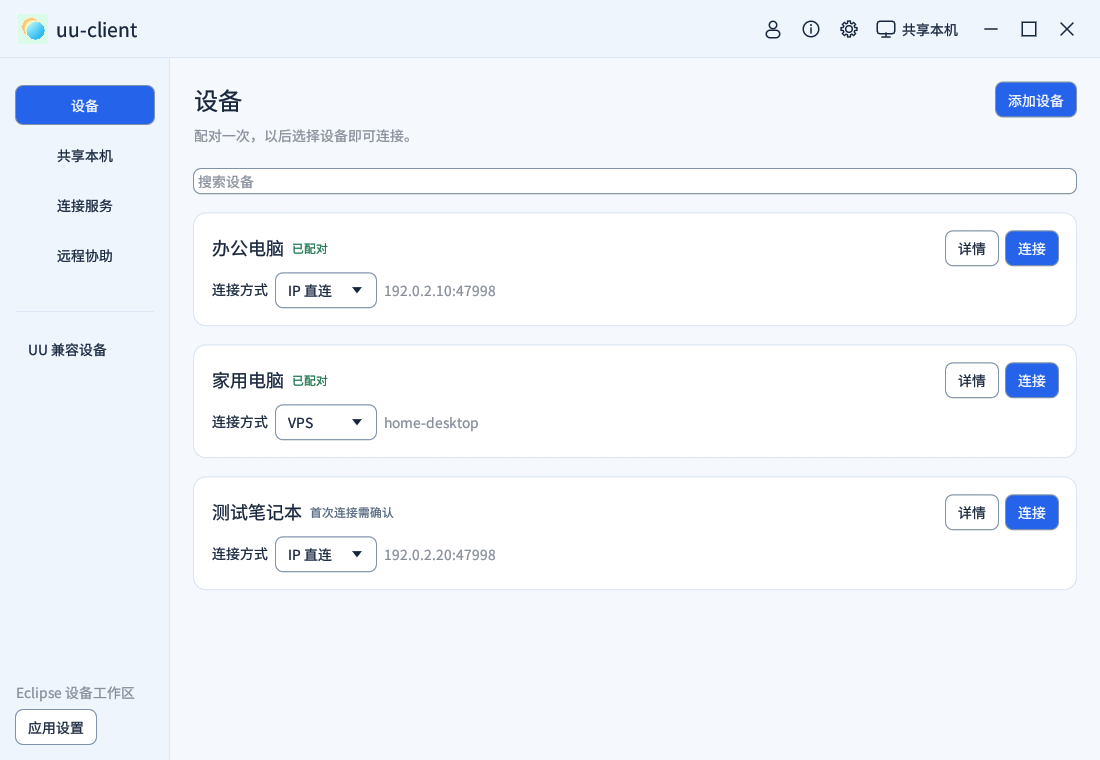
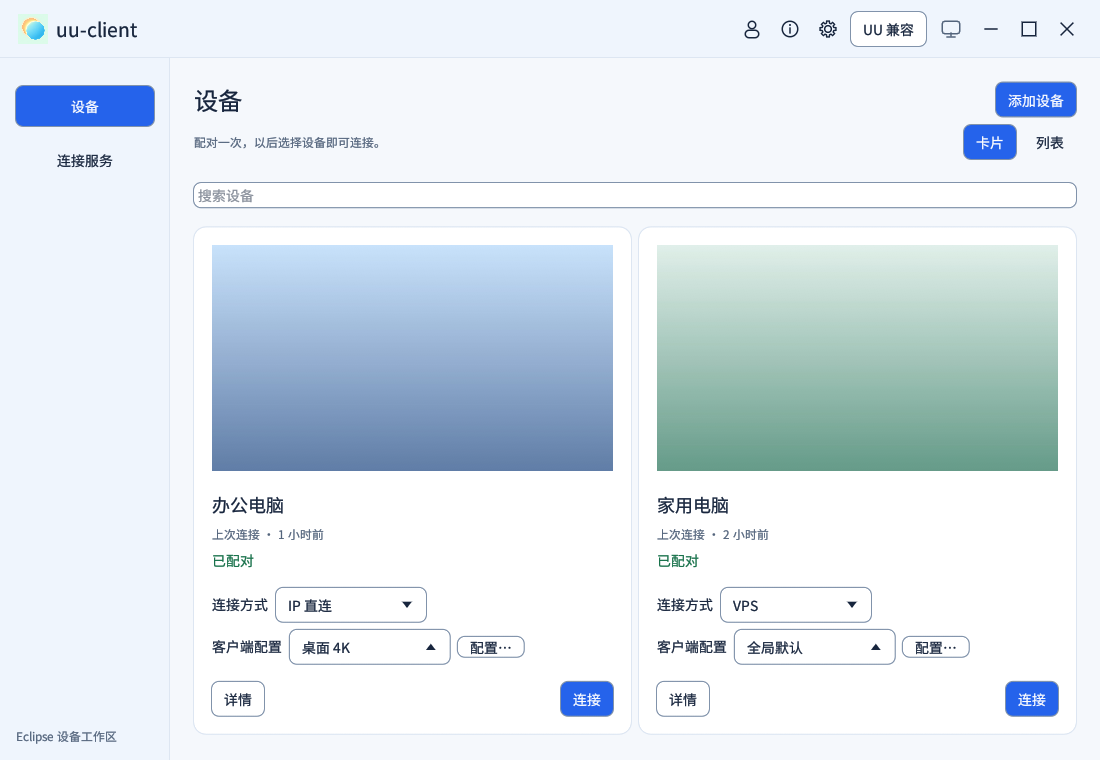
docs(settings): 说明新设备工作区与两端配置边界
原因：原文档仍指向独立共享页面和分散的端口入口，无法解释设备命名配置、会话临时调整及原生画质协商。

做法：新增客户端与服务端设置指南，更新连接、编码、权限和首页入口，说明实际帧率限制、旧端降级、私有预览与 v3 配置迁移；更新生成演示数据的设备及设置截图，不包含个人设备或部署信息。

验证：61 个本地文档目标检查通过；1100×760 和 560×420 真实隔离窗口截图已检查，服务端固定保存按钮在窄窗口可见；diff 检查通过。

diff --git a/docs/client-and-server-settings.md b/docs/client-and-server-settings.md
@@ -1,0 +1,68 @@
+# 客户端配置、服务端设置与连接服务
+
+从 0.13 开发版开始，默认进入“设备”。本机可以同时作为控制端和被控端，设置按角色分别保存。
+
+| 位置 | 管理内容 | 生效范围 |
+|---|---|---|
+| 设备 | 连接地址、上次成功连接时间、上次画面、客户端配置选择 | 当前设备 |
+| 应用设置 → 客户端 | 画面、声音、键鼠、串流信息 | 新连接的全局默认 |
+| 设备 → 配置 / 详情 | 多个命名配置，可编辑、复制、删除 | 这台设备的下一次连接 |
+| 串流窗口 → 设置 | 临时调整当前串流 | 当前会话 |
+| 应用设置 → 服务端 | 名称、屏幕、声音、编码与访问权限、启动及自启 | 本机被控服务 |
+| 连接服务 | IP 端口、UU 账号、每台自建服务器及启用开关 | 本机服务入口 |
+| 顶部 UU 兼容 | 官方远程协助与官方设备列表 | UU 兼容通路 |
+
+下面的界面使用隔离环境中的演示设备和生成预览。
+
+![设备卡片与客户端配置选择](images/workspace.png)
+
+## 客户端配置
+
+未指定独立配置的设备继承全局默认。设备可以保存多个配置，例如“桌面 4K”“移动网络”“游戏”，并在设备卡片或列表中切换。
+
+每次打开串流窗口时固定读取所选配置。随后编辑设备配置不会改变已经打开的窗口；串流内的临时调整也不会覆盖全局默认或设备配置。已有窗口仍保持自己的会话配置，需要关闭后重开才会使用设备新选择的配置。删除正在选择的配置会恢复为继承全局默认。
+
+分辨率设置限制输出视频尺寸，保持源画面比例，不放大较小的源画面，也不更改被控端系统分辨率。输入仍按照原始桌面范围定位。软件缩放会增加处理工作，保持原始分辨率可避免这部分开销。
+
+垂直同步和解码方式在创建串流窗口时读取，修改后重新打开串流窗口生效。
+
+![客户端默认设置](images/settings-client.png)
+
+## 原生画质协商
+
+IP、UU 寻址和自建服务器入口使用同一套原生画质规则：
+
+1. 客户端声明经过解码探针确认的格式，以及帧率、输出分辨率、可选码率和编码偏好。
+2. 主机按允许的编码、最大帧率和最大码率限制请求；自动码率使用主机默认值。
+3. 主机在实际输出尺寸下初始化编码器，仅回报初始化成功的格式。明确选择的格式不可用时会报错；自动选择可使用允许的其它格式。
+4. 运行中调整画质会先释放输入和旧连接，再重新协商。统计和诊断记录实际使用参数。
+
+原生链路目前保留最高 60 FPS、最高 4K60 几何预算。客户端更高的目标会受主机限制。允许 HEVC / AV1 并不代表驱动支持，仍需要相应硬件编码和解码；软件模式使用 H.264。
+
+扩展信息放在可选 SDP 属性中，保留原有严格信令 JSON。旧主机忽略新请求并继续使用自己的参数；旧客户端连接新主机时使用主机默认设置。原生媒体仍是 WebRTC 的 UDP / DTLS-SRTP，不因此切换传输协议。UU 官方兼容模式保留自身的控制协议，原生扩展不会发送给官方主机。
+
+## 服务运行与连接入口
+
+IP 直连默认启用，UU 和每台自建服务器独立启用。启动本机服务时只运行启用的入口，禁用 IP 时不建立其服务或发现监听。所有入口共用本机身份、授权表和会话管理。
+
+顶部电脑图标和服务端设置中的按钮控制同一个服务：绿色表示运行，灰色表示停止；悬停可查看说明。入口登录或网络失败会在连接服务页显示，运行状态不代表每个入口都已经连通。
+
+“打开软件时自动启动服务”只控制主页启动后的行为，不创建操作系统启动项，也不会让每个串流子窗口再启动一份主机。修改入口或采集编码设置前需要停止服务，保存后再启动。
+
+入口开关控制本机接受连接和发布设备。只控制另一台设备时，不需要先启动本机服务。首次配对、撤销授权和观看 / 控制权限规则保持一致，详见[设备连接与授权](device-connection-and-trust.md)。
+
+![服务端采集与运行设置](images/settings-server.png)
+
+## 设备预览与壁纸
+
+连接时间在收到首个解码画面后记录。退出或断线时保存远端视频的最后画面缩略图，不保存菜单、HUD 或本机整个桌面。正常串流期间不额外截图或逐帧回读。预览失败时保留上一张可用图片；缩略图只保存在本机用户目录，移除设备记录时清理对应图片。
+
+设备页支持卡片和列表。设备身份归并依据已验证公钥，连接时间、配置和预览随身份归并；同名设备不会自动合并。
+
+壁纸接受直接返回 JPEG / PNG 的 HTTP / HTTPS 图片地址，默认使用 `https://picsum.photos/1920/1080`，与 Moonlight V+ 的摄影壁纸入口一致。这是可替换的图片接口，不是 Moonlight 官方云服务。壁纸缓存在本机，每日检查更新，也可在应用设置里手动刷新或关闭；网络失败不妨碍连接设备。
+
+## 升级与回退
+
+旧客户端偏好保留原有默认值、光标模式和端口迁移规则。设备连接配置升级为第 3 版，首次修改之前保存一份私有的第 2 版原始备份。账号、设备私钥和已有配对不因界面调整重新注册。
+
+旧版本不能读取新版设备配置。回退前先退出应用并保留全部用户数据，再恢复相应旧版备份；不要让旧版本覆盖新版的连接记录。

diff --git a/README.md b/README.md
@@ -7,7 +7,7 @@
 </p>
 <p align="center"><strong>远端，如在眼前。</strong><br>面向 Windows 与 Linux 的原生远程串流客户端</p>
 
-uu-client 使用 Rust 构建，提供设备列表、远程画面、音频、键鼠和多显示器操作。Linux 客户端原生运行，无需 Wine。当前开发分支默认进入 **设备工作区**：保存多台原生设备及 IP、UU、VPS 地址，首次短码配对后跨入口复用公钥授权。“共享本机”统一管理画质、连接入口和控制端权限；使用官方被控端可选择“UU 兼容设备”或“远程协助”。详见[局域网连接与配对](docs/native-lan.md)。
+uu-client 使用 Rust 构建，提供设备列表、远程画面、音频、键鼠和多显示器操作。Linux 客户端原生运行，无需 Wine。当前开发分支默认进入 **设备工作区**：保存多台原生设备及 IP、UU、VPS 地址，首次短码配对后跨入口复用公钥授权。应用设置分别管理客户端默认和服务端的采集、编码与权限；“连接服务”集中管理 IP、UU 和自建服务器入口。设备支持卡片／列表、最后画面和多个命名客户端配置；官方被控端入口集中在顶部“UU 兼容”。详见[新版配置与设备页](docs/client-and-server-settings.md)。详见[局域网连接与配对](docs/native-lan.md)。
 
 目前已达到日常远程桌面基本可用的 demo 阶段，仍在快速迭代。原生通路提供图形共享、公钥授权的输入控制、[系统声音与恢复](docs/native-audio.md)及[双方许可文本剪贴板](docs/native-clipboard.md)，IP 直连不需要第三方账号。Linux 共享支持 X11 和 [Wayland 门户 / PipeWire](docs/linux-client.md#wayland-本机共享)。
 
@@ -68,7 +68,7 @@ python3 tools/release/download.py
 
 校验后的包统一位于 `artifacts/packages/`；工具核对发布标签对应提交、压缩包校验和及每个文件的哈希。下载不会安装或启动软件。
 
-当前开发分支：主机选择“共享本机”并开始共享，再允许新设备配对；控制端自动发现或手动添加地址，将显示的八位配对码输入主机确认。后续点击已配对设备即可串流，主机可随时撤销授权。详见[局域网连接与配对](docs/native-lan.md)。v0.9.0 及更早的发布包使用[邀请文件通路](docs/native-streaming.md)，两者均无需第三方账号或服务凭据。
+当前开发分支：主机在“连接服务”启用所需入口，再通过顶部电脑图标或“应用设置 → 服务端设置”启动服务，允许新设备配对；控制端自动发现或手动添加地址，将显示的八位配对码输入主机确认。后续点击已配对设备即可串流，主机可随时撤销授权。详见[局域网连接与配对](docs/native-lan.md)。v0.9.0 及更早的发布包使用[邀请文件通路](docs/native-streaming.md)，两者均无需第三方账号或服务凭据。
 
 v0.5.0 起的 UU 兼容模式内置 PC 客户端共享的请求签名值，首次使用无需手工创建签名文件；账号仍需扫码登录，远端操作仍受账号与设备权限控制。该共享值可从源码或程序中读取，不是用户个人令牌，也不代表获得官方接入授权。需要覆盖默认值时，见[连接签名配置说明](docs/connection-credentials.md)。v0.1–v0.4 发布包仍要求本地配置。
 

diff --git a/docs/native-internet.md b/docs/native-internet.md
@@ -8,12 +8,12 @@
 
 ## 桌面使用
 
-“共享本机”统一设置显示器、画质、硬件编码和权限；IP 入口在开始共享后默认开启。UU 和多个自建服务器可按需启用，在对应入口分别显示上线状态和错误。当前共享最多同时接受四个已授权会话，各连接有独立权限和生命周期，键鼠与手柄共用独占控制权。停止一个会话不影响其它会话；停止共享才关闭全部入口。UU 服务侧是否允许并发仍取决于其策略。
+“应用设置 → 服务端设置”统一设置显示器、编码和权限；“连接服务”管理 IP、UU 和每台自建服务器的启用与网络配置。IP 默认启用，启动服务后运行已启用入口，各入口显示上线状态和错误。当前共享最多同时接受四个已授权会话，各连接有独立权限和生命周期，键鼠与手柄共用独占控制权。停止一个会话不影响其它会话；停止共享才关闭全部入口。UU 服务侧是否允许并发仍取决于其策略。
 
 UU 连接步骤：
 
 1. 两端在“连接服务”各自正常登录 UU；可以同账号，必须使用不同的 UU 设备身份。
-2. 被控端在“共享本机”勾选使用 UU 服务，点击“开始共享”；首次再点击“允许新设备配对”。仅登录不会自动共享。
+2. 被控端在“连接服务”启用 UU，再在服务端设置点击“启动服务”；首次再点击“允许新设备配对”。仅登录不会自动共享。
 3. 控制端在“设备 → 添加设备 → UU 账号”填写被控端“连接服务”显示的本机 UU 编号。
 4. 控制端显示八位配对码，被控端输入并批准，软件保存公钥及独立权限。以后直接选设备连接；无需共享 key 文件。
 
